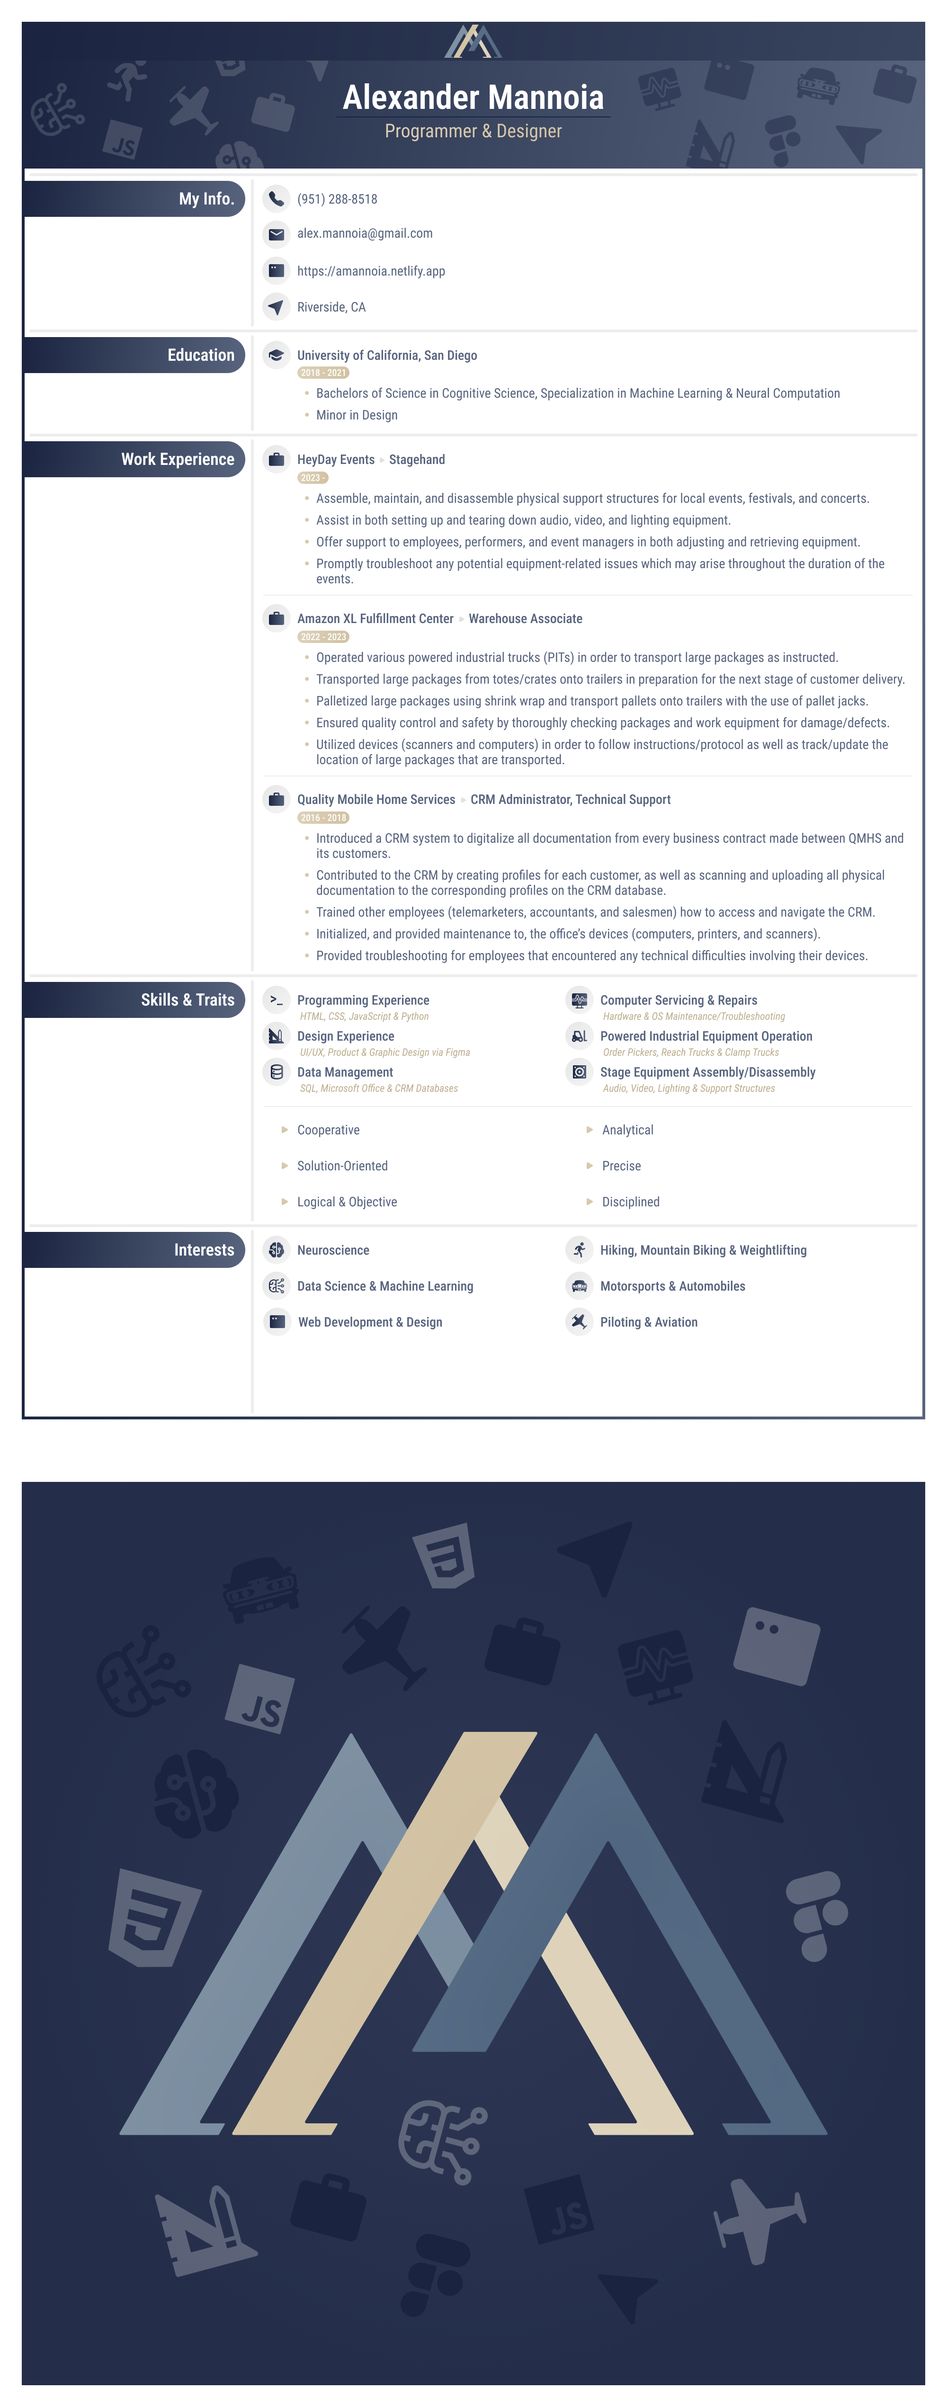
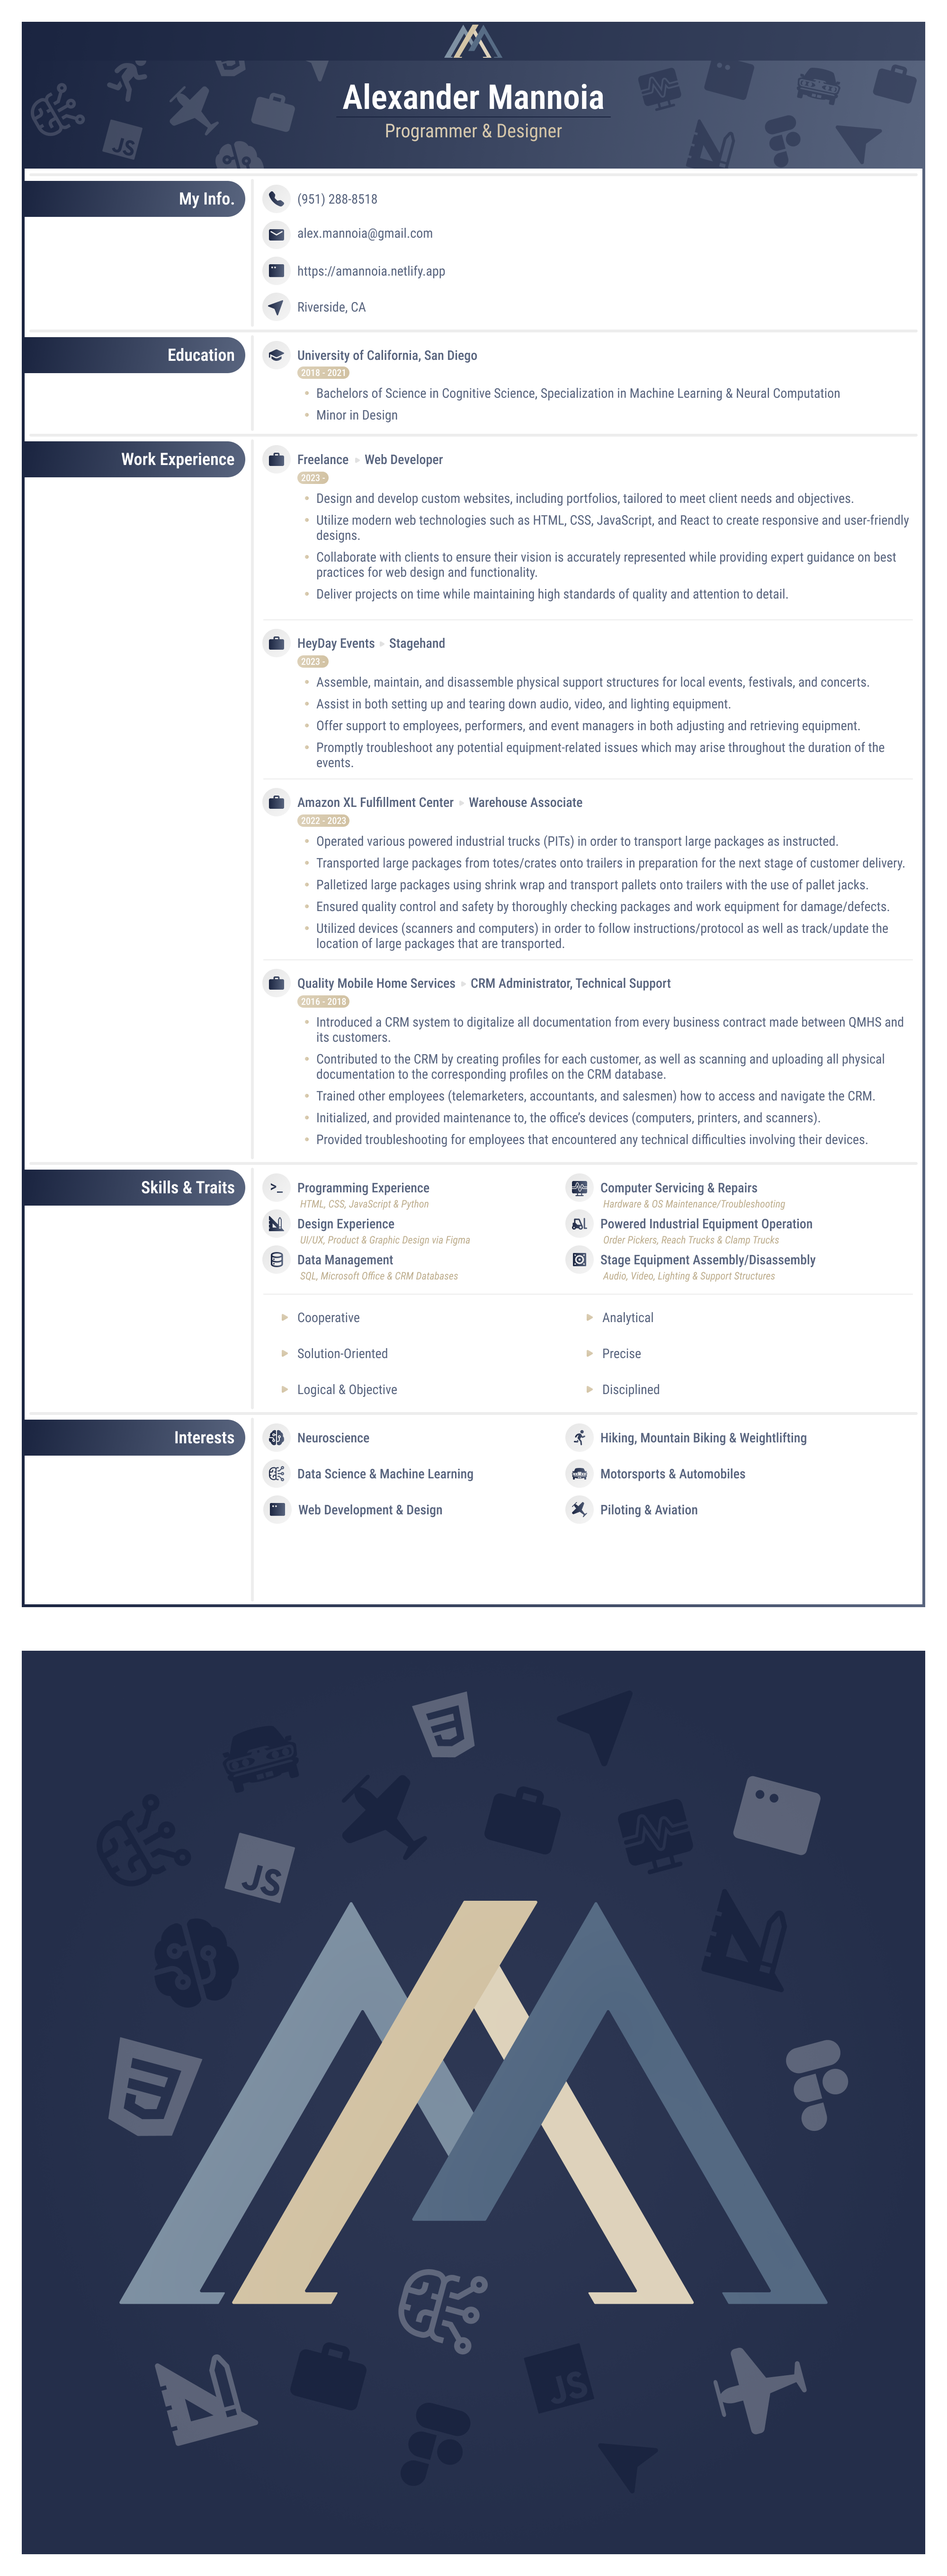
Color scheme change, other updates...

diff --git a/index.html b/index.html
@@ -282,10 +282,10 @@
         <div id="projects-body">
             <h2 class="projects-title">PROJECTS</h2>
             <div id="projects-grid">
-               <div class="projects-thumbnail projects-sffpc">
+               
+                <!-- SFFPC Slider (Start) -->
+                <div class="projects-thumbnail projects-sffpc">
                     <button type="button" class="projects-button">▲</button>
-                    
-                    <!-- SFFPC Slider (Start) -->
                     <div class="projects-desc">
                         <div class="projects-desc-content">
                             <div class="projects-desc-banner"> 
@@ -326,13 +326,12 @@
                             <a class="projects-desc-link" href="https://manhathaway.github.io/SFFPC_BLDR/index.html" target="_blank" rel="noopener noreferrer">View Website</a>
                         </div>
                     </div>
-                    <!-- SFFPC Slider (END) -->
-    
                 </div>
+                <!-- SFFPC Slider (END) -->
+                
+                <!-- MUSIX Slider (START) -->
                 <div class="projects-thumbnail projects-musix">
                     <button type="button" class="projects-button">▲</button>
-                    
-                    <!-- MUSIX Slider (START) -->
                     <div class="projects-desc">
                         <div class="projects-desc-content">
                             <div class="projects-desc-banner"> 
@@ -387,61 +386,14 @@
     
                         </div>
                     </div>
-                    <!-- MUSIX Slider (END) -->
-    
                 </div>
-                <div class="projects-thumbnail projects-tsy">
-                    <button type="button" class="projects-button">▲</button>
-                    
-                    <!-- The Senna Years Slider (START) -->
-                    <div class="projects-desc">
-                        <div class="projects-desc-content">
-                            <div class="projects-desc-banner"> 
-                                <div class="projects-desc-title">
-                                    <h2>The Senna Years</h2>
-                                    <p>A Tribute to Ayrton Senna</p>
-                                </div>
-                                <div class="projects-desc-icons">
-                                    <h2 class="projects-status-icon projects-status-icon-comp">COMPLETE</h2>
-                                    <img class="projects-status-icon-sm projects-status-icon-sm-comp" src="d_projects/resources/icon_complete.svg" alt="Complete Icon" title="Complete"></img>
-                                    <a class="projects-desc-link-sm tsy-desc-link-sm" href="https://the-senna-years.netlify.app/" target="_blank" rel="noopener noreferrer"></a>
-
-                                </div>
-                            </div>
-                            <div class="projects-desc-body">
-                                <div class="projects-desc-about">
-                                    <p>An API-powered website dedicated to the prodigious race car driver Ayrton Senna, showcasing his performance in Formula 1 and the cars he competed in.</p>
-                                </div>
-                                <div class="projects-desc-info-list">
-                                    <div class="projects-desc-info-line">
-                                        <span>Project Type:</span>
-                                        <p>Solo</p>
-                                    </div>
-                                    <div class="projects-desc-info-line">
-                                        <span>Duration:</span>
-                                        <p>1 Month</p>
-                                    </div>
-                                    <div class="projects-desc-info-line">
-                                        <span>Tools:</span>
-                                        <div class="projects-tools-icons">
-                                            <div class="projects-icons">
-                                                <img class="projects-icon" src="d_projects/resources/figma.svg" title="Figma" alt="Figma Icon"></img>
-                                                <img class="projects-icon" src="d_projects/resources/react.svg" title="React" alt="React Icon"></img>
-                                            </div>
-                                        </div>
-                                    </div>
-                                </div>   
-                            </div>
-                            <a class="projects-desc-link" href="https://the-senna-years.netlify.app/" target="_blank" rel="noopener noreferrer">View Website</a>
-                        </div>
-                    </div>
-                    <!-- The Senna Years Slider (END) -->
-    
-                </div>
+                <!-- MUSIX Slider (END) -->
+                
+                <!-- Kyfolio Slider (START) -->
                 <div class="projects-thumbnail projects-ky">
                     <button type="button" class="projects-button">▲</button>
                     
-                    <!-- Kyfolio Slider (START) -->
+                    
                     <div class="projects-desc">
                         <div class="projects-desc-content">
                             <div class="projects-desc-banner"> 
@@ -483,8 +435,56 @@
                             <a class="projects-desc-link" href="https://kymann.netlify.app/" target="_blank" rel="noopener noreferrer">View Website</a>
                         </div>
                     </div>
-                    <!-- Kyfolio Slider (END) -->
                 </div>
+                <!-- Kyfolio Slider (END) -->
+
+                <!-- The Senna Years Slider (START) -->
+                <div class="projects-thumbnail projects-tsy">
+                    <button type="button" class="projects-button">▲</button>
+                    <div class="projects-desc">
+                        <div class="projects-desc-content">
+                            <div class="projects-desc-banner"> 
+                                <div class="projects-desc-title">
+                                    <h2>The Senna Years</h2>
+                                    <p>A Tribute to Ayrton Senna</p>
+                                </div>
+                                <div class="projects-desc-icons">
+                                    <h2 class="projects-status-icon projects-status-icon-comp">COMPLETE</h2>
+                                    <img class="projects-status-icon-sm projects-status-icon-sm-comp" src="d_projects/resources/icon_complete.svg" alt="Complete Icon" title="Complete"></img>
+                                    <a class="projects-desc-link-sm tsy-desc-link-sm" href="https://the-senna-years.netlify.app/" target="_blank" rel="noopener noreferrer"></a>
+
+                                </div>
+                            </div>
+                            <div class="projects-desc-body">
+                                <div class="projects-desc-about">
+                                    <p>An API-powered website dedicated to the prodigious race car driver Ayrton Senna, showcasing his performance in Formula 1 and the cars he competed in.</p>
+                                </div>
+                                <div class="projects-desc-info-list">
+                                    <div class="projects-desc-info-line">
+                                        <span>Project Type:</span>
+                                        <p>Solo</p>
+                                    </div>
+                                    <div class="projects-desc-info-line">
+                                        <span>Duration:</span>
+                                        <p>1 Month</p>
+                                    </div>
+                                    <div class="projects-desc-info-line">
+                                        <span>Tools:</span>
+                                        <div class="projects-tools-icons">
+                                            <div class="projects-icons">
+                                                <img class="projects-icon" src="d_projects/resources/figma.svg" title="Figma" alt="Figma Icon"></img>
+                                                <img class="projects-icon" src="d_projects/resources/react.svg" title="React" alt="React Icon"></img>
+                                            </div>
+                                        </div>
+                                    </div>
+                                </div>   
+                            </div>
+                            <a class="projects-desc-link" href="https://the-senna-years.netlify.app/" target="_blank" rel="noopener noreferrer">View Website</a>
+                        </div>
+                    </div>
+                </div>
+                <!-- The Senna Years Slider (END) -->
+
             </div>
         </div>
     </div>

diff --git a/e_contact/contact.css b/e_contact/contact.css
@@ -62,7 +62,7 @@
     font-family: 'Nunito', sans-serif;
     color: white;
     padding-left: 10px;
-    background-color: rgba(255, 255, 255, 0.25);
+    background-color: var(--accent-trans-half);
     font-size: 1rem;
     border: none;
 
@@ -86,7 +86,7 @@
     font-size: 1.15rem;
     letter-spacing: 1px;
     color: white;
-    border: 3px solid white;
+    border: 3px solid var(--accent-trans-full);
     cursor: pointer;
 
     transition-duration: 2s;
@@ -100,12 +100,12 @@
 }
 
 .contact-form-submit:hover {
-    background: rgba(255, 255, 255, 0.25);
+    border: 3px solid white;
 }
 
 .contact-form-option > input:hover,
 .contact-form-option > textarea:hover {
-    background-color: rgba(255, 255, 255, 0.35);
+    background-color: var(--accent-trans-full);
 }
 
 @media screen and (max-width: 950px) {   

diff --git a/styles.css b/styles.css
@@ -1,10 +1,11 @@
 :root {
-    --accent: rgb(0, 255, 209);
-    --accent-trans: rgb(14, 39, 45);
+    --accent: rgb(105, 105, 125);
+    --accent-trans-half: rgba(105, 105, 125, 0.25);
+    --accent-trans-full: rgba(105, 105, 125, 0.5);
     --bg-light: rgb(15, 15, 27);
     --bg-dark: rgb(10, 10, 17);
     --bg-projects: rgb(0, 0, 5);
-    --bg-projects-trans: rgba(0, 0, 5, 0.5);
+    --bg-projects-trans: rgba(0, 0, 5, 0.6);
     --projects-status-incomplete: rgb(0, 150, 255);
     --projects-status-incomplete-bg: rgba(0, 150, 255, 0.25);
     --projects-status-complete: rgb(0, 255, 150);

diff --git a/b_experience/experience.css b/b_experience/experience.css
@@ -117,7 +117,7 @@
 
 .experience-row-icon {
     padding: 7.5px;
-    background-color: var(--accent-trans);
+    border: 3px solid var(--accent);
 }
 
 .experience-row-label {
@@ -237,7 +237,7 @@
     height: 0;
     border-top: 5px solid transparent;
     border-bottom: 5px solid transparent;
-    border-left: 7.5px solid var(--accent-trans);
+    border-left: 7.5px solid white;
     margin-right: 15px;
 }
 

diff --git a/f_footer/footer.css b/f_footer/footer.css
@@ -22,7 +22,7 @@
     padding: 25px;
     width: 100%;
     border: unset;
-    border: 3px solid white;
+    border: 3px solid var(--accent-trans-full);
     background: transparent;
     color: white;
     cursor: pointer;
@@ -34,7 +34,7 @@
 }
 
 .footer-cell > button:hover {
-    background: rgba(255, 255, 255, 0.25);
+    border: 3px solid white;
 }
 
 @media screen and (max-width: 950px) {

diff --git a/d_projects/projects.css b/d_projects/projects.css
@@ -169,7 +169,7 @@
 .projects-desc-info-list {
     margin: 0 50px;
     padding: 50px;
-    background-color: rgba(0, 0, 0, 0.25);
+    background-color: rgba(0, 0, 5, 0.25);
     color: white;
     font-size: 1.25rem;
     letter-spacing: 0.5px;
